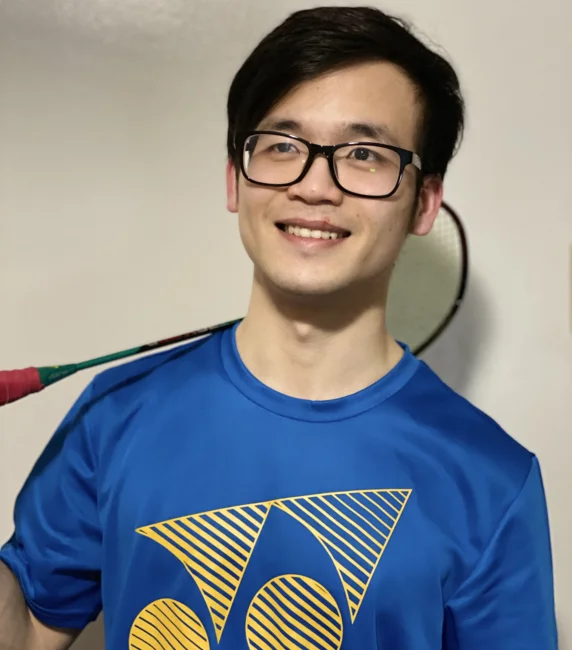
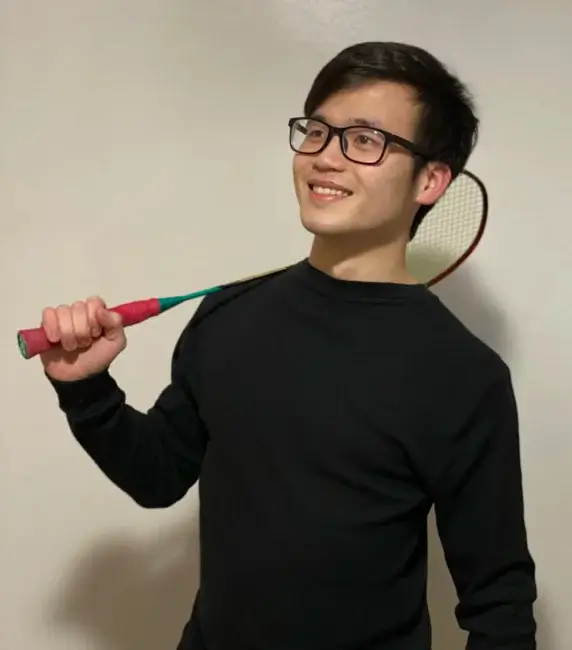
fix carousel and menu in phone view

diff --git a/src/components/Navbar.tsx b/src/components/Navbar.tsx
@@ -33,25 +33,25 @@ const Navbar = () => {
       {menuExpand ? (
         <div className="absolute top-[80%] left-0 pl-8 pb-8 w-full block flex-grow lg:flex lg:items-center lg:w-auto bg-[#363195] shadow-lg">
           <div className="inline-block text-md px-4 py-2 leading-none text-white mt-4 lg:mt-0">
-            <a href="#" className="block mt-2 lg:inline-block lg:mt-0 text-white hover:text-white mr-4">
+            <a href="#" className="block mt-2 lg:inline-block lg:mt-0 text-white hover:text-white mr-4" onClick={()=>setMenuExpand(false)}>
               Home
             </a>
-            <a href="#Information" className="block mt-6 lg:inline-block lg:mt-0 text-white hover:text-white mr-4">
+            <a href="#Information" className="block mt-6 lg:inline-block lg:mt-0 text-white hover:text-white mr-4" onClick={()=>setMenuExpand(false)}>
               Information
             </a>
-            <a href="#Pricing" className="block mt-6 lg:inline-block lg:mt-0 text-white hover:text-white mr-4">
+            <a href="#Pricing" className="block mt-6 lg:inline-block lg:mt-0 text-white hover:text-white mr-4" onClick={()=>setMenuExpand(false)}>
               Pricing
             </a>
-            <a href="#Organizer" className="block mt-6 lg:inline-block lg:mt-0 text-white hover:text-white mr-4">
+            <a href="#Organizer" className="block mt-6 lg:inline-block lg:mt-0 text-white hover:text-white mr-4" onClick={()=>setMenuExpand(false)}>
               Organizers
             </a>
-            <a href="#Gallery" className="block mt-6 lg:inline-block lg:mt-0 text-white hover:text-white mr-4">
+            <a href="#Gallery" className="block mt-6 lg:inline-block lg:mt-0 text-white hover:text-white mr-4" onClick={()=>setMenuExpand(false)}>
               Gallery
             </a>
-            <a href="#FAQ" className="block mt-6 lg:inline-block lg:mt-0 text-white hover:text-white">
+            <a href="#FAQ" className="block mt-6 lg:inline-block lg:mt-0 text-white hover:text-white" onClick={()=>setMenuExpand(false)}>
               FAQ
             </a>
-            <a href="#Contact" className="block mt-6 lg:inline-block lg:mt-0 text-white hover:text-white">
+            <a href="#Contact" className="block mt-6 lg:inline-block lg:mt-0 text-white hover:text-white" onClick={()=>setMenuExpand(false)}>
               Contact
             </a>
           </div>

diff --git a/src/components/Organizers.tsx b/src/components/Organizers.tsx
@@ -1,7 +1,7 @@
 import tris2 from "../assets/Tris.webp";
 import tris1 from "../assets/Tris1.webp";
-import person1 from "../assets/viet_badminton.png";
-import person2 from "../assets/viet_badminton.webp";
+import person2 from "../assets/viet_badminton-2.webp";
+import person1 from "../assets/viet_badminton.webp";
 import ImageIndividual from "./ImageIndividual";
 
 const namePositionMap1 = {

diff --git a/src/components/Gallery.tsx b/src/components/Gallery.tsx
@@ -124,6 +124,7 @@ const Gallery = () => {
                           onClick={() => {
                             setMobileDropdown(false);
                             setGalleryTab(tab);
+                            setCurrentPageMobile(0);
                           }}
                         >
                           {tab}
